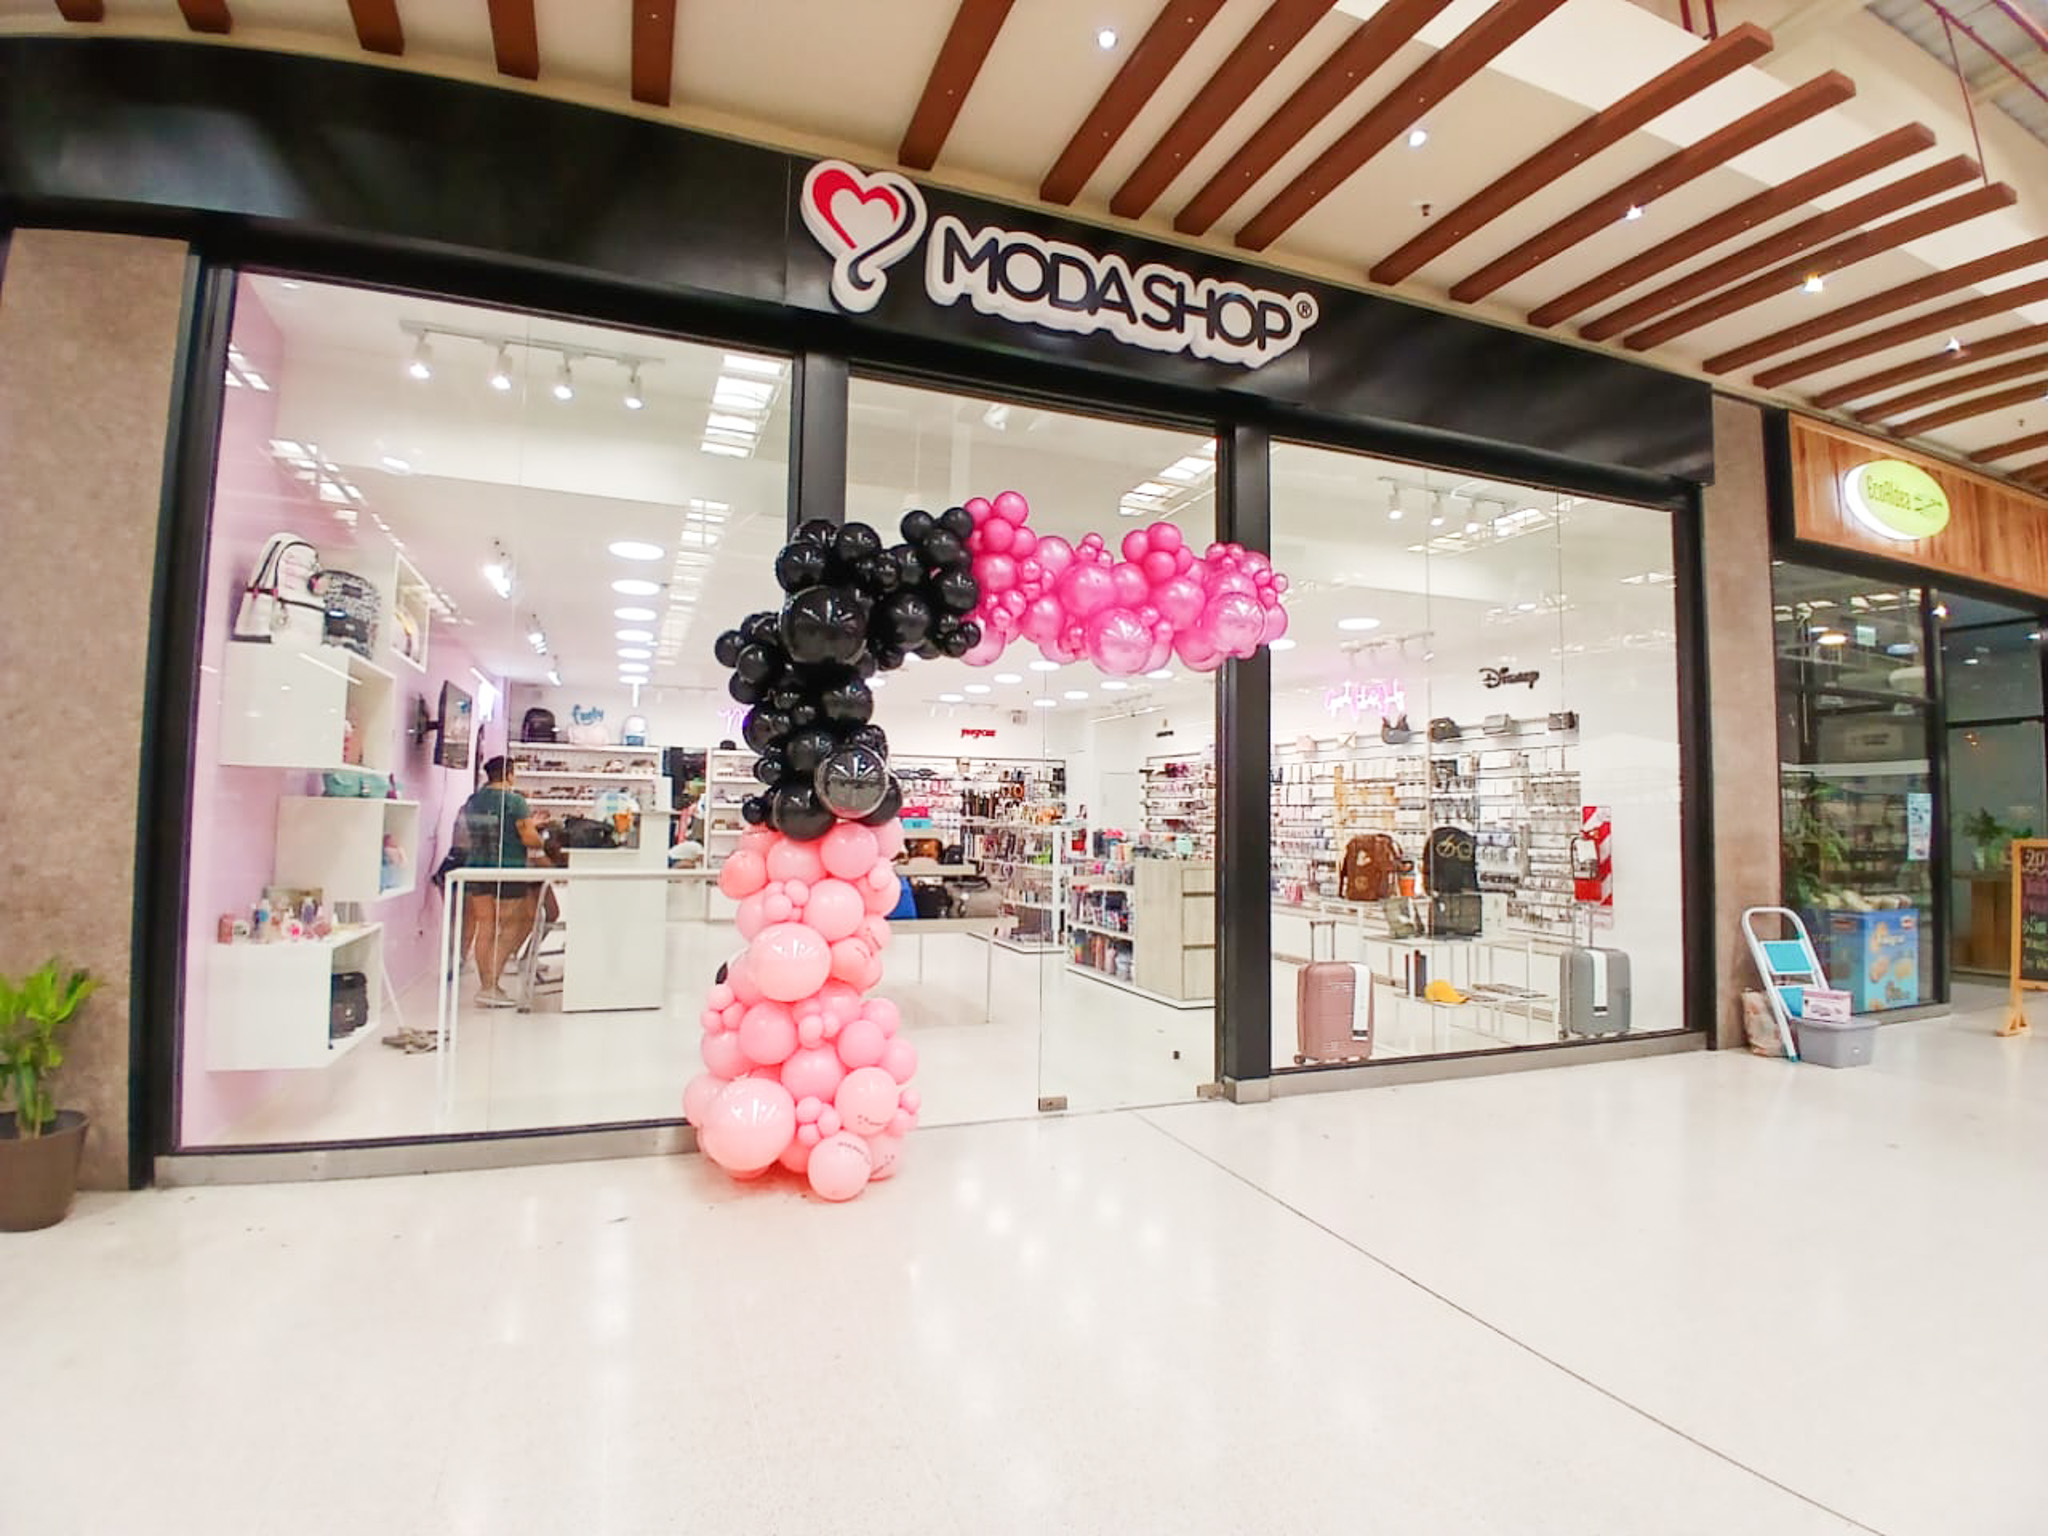
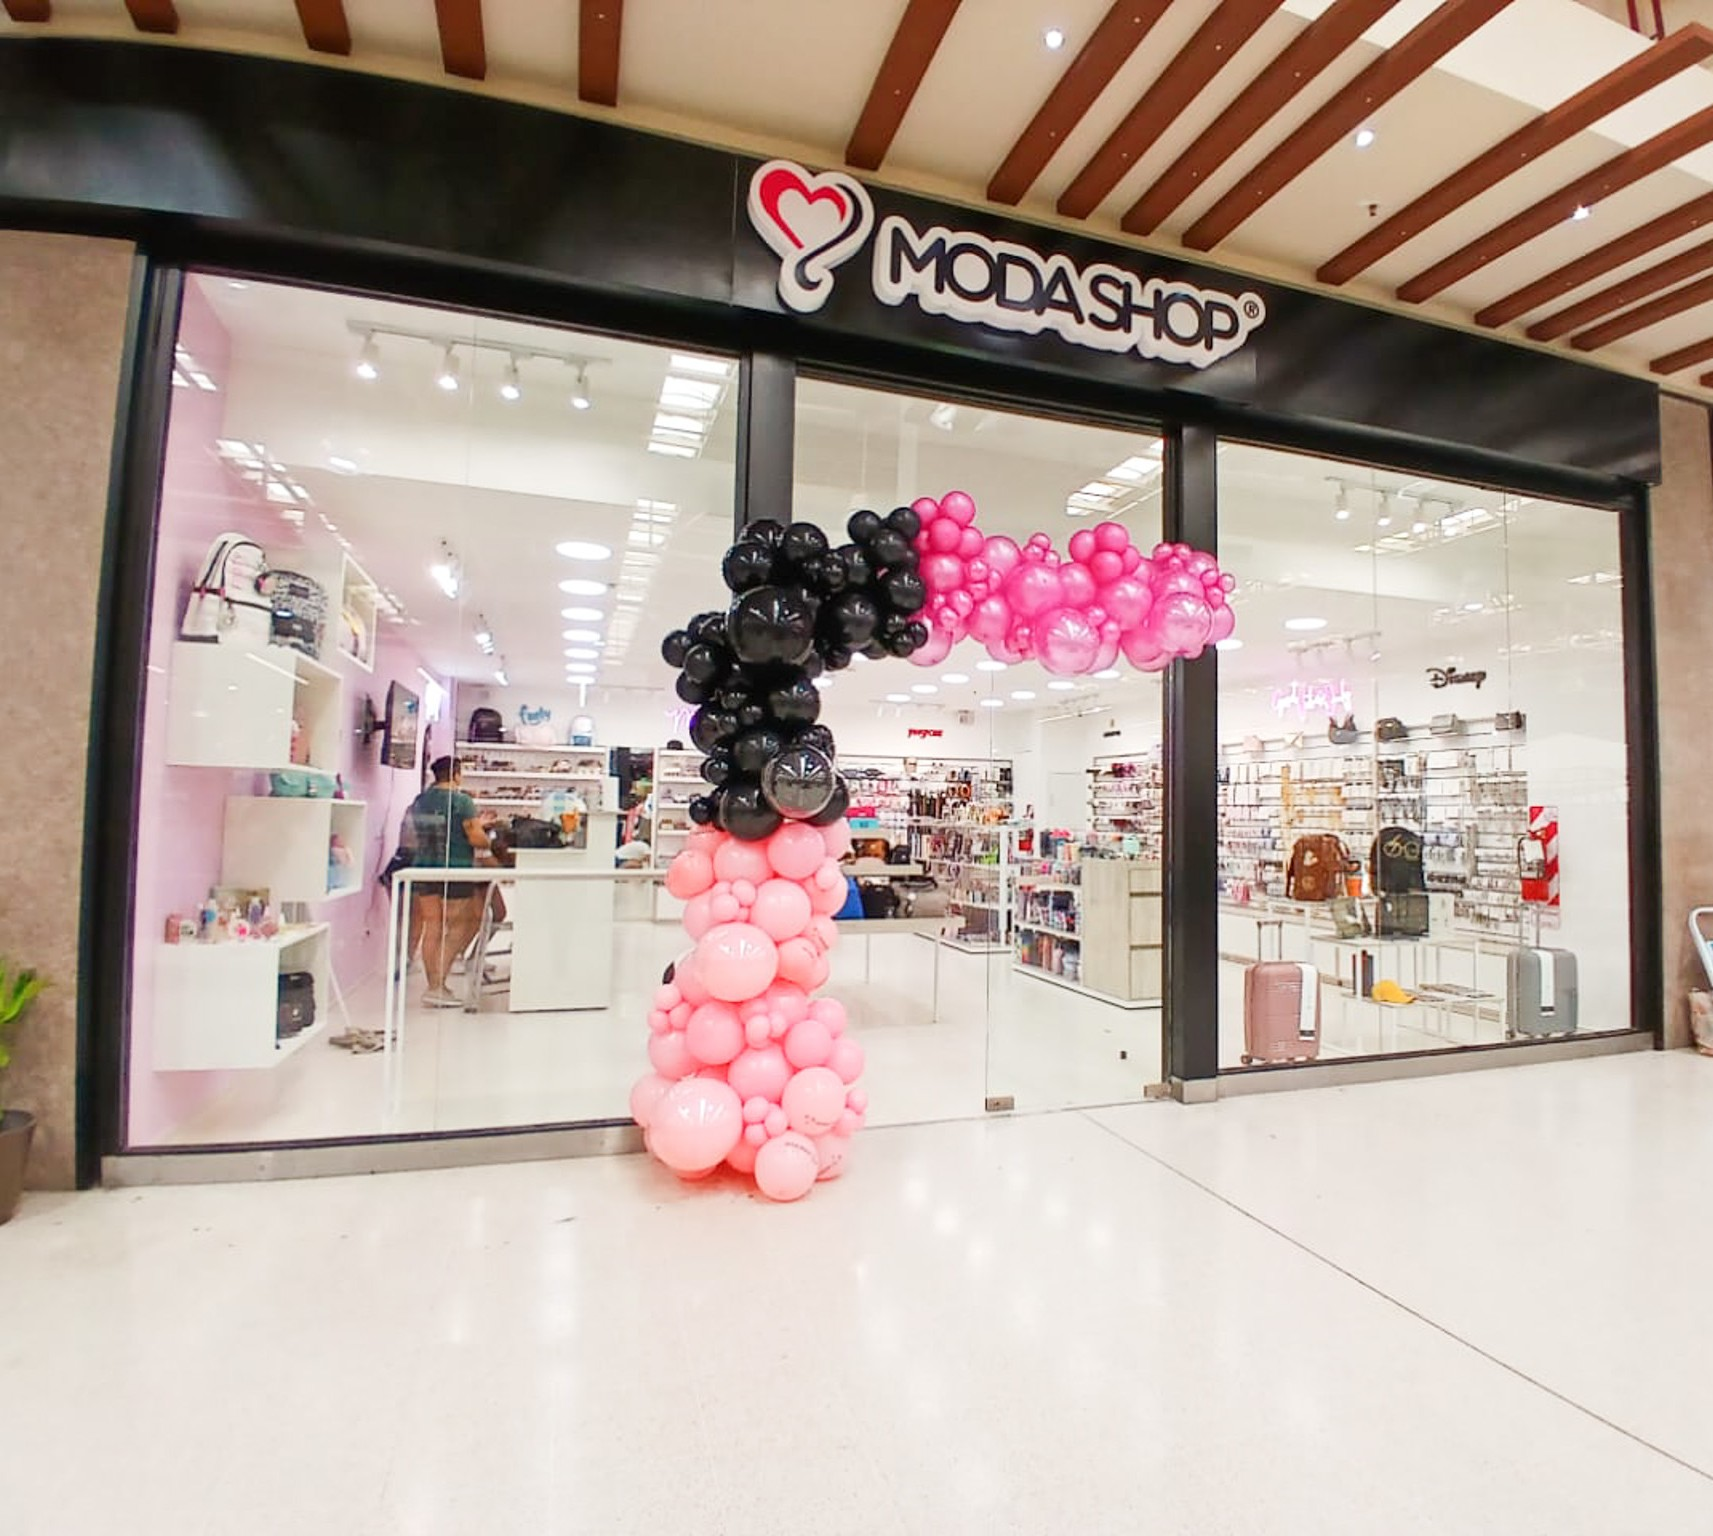
feat: replace store images with new visuals
Update images for modern ambiance and premium display sections.

#VERCEL_SKIP

diff --git a/components/products.tsx b/components/products.tsx
@@ -1,34 +1,41 @@
 import { Card, CardContent } from "@/components/ui/card"
-import { Briefcase, Sparkles, Shirt, BookOpen, Palette, Gift } from 'lucide-react'
+import { BookOpen, Gift } from "lucide-react"
+import Image from "next/image"
 
 const products = [
   {
-    icon: Briefcase,
+    icon: "/icons/bag.png",
+    isImage: true,
     name: "Marroquinería",
     description: "Carteras, billeteras y accesorios de cuero",
   },
   {
-    icon: Sparkles,
+    icon: "/icons/earring.png",
+    isImage: true,
     name: "Bijouterie",
     description: "Collares, pulseras, aros y anillos",
   },
   {
-    icon: Shirt,
+    icon: "/icons/snapback.png",
+    isImage: true,
     name: "Accesorios de temporada",
     description: "Bufandas, gorros, guantes y más",
   },
   {
     icon: BookOpen,
+    isImage: false,
     name: "Escolares y Bazar",
     description: "Mochilas, cartucheras y útiles",
   },
   {
-    icon: Palette,
+    icon: "/icons/cosmetics.png",
+    isImage: true,
     name: "Cosmética",
     description: "Maquillaje, perfumes y cuidado personal",
   },
   {
     icon: Gift,
+    isImage: false,
     name: "Regalería",
     description: "Ideas perfectas para toda ocasión",
   },
@@ -72,7 +79,17 @@ export function Products() {
                 <CardContent className="p-8">
                   <div className="flex items-start gap-4 mb-4">
                     <div className="w-14 h-14 rounded-2xl bg-gradient-to-br from-accent/20 to-accent/5 flex items-center justify-center group-hover:from-accent/30 group-hover:to-accent/10 transition-all flex-shrink-0">
-                      <product.icon className="w-7 h-7 text-accent" />
+                      {product.isImage ? (
+                        <Image
+                          src={(product.icon as string) || "/placeholder.svg"}
+                          alt={product.name}
+                          width={28}
+                          height={28}
+                          className="opacity-80 group-hover:opacity-100 transition-opacity"
+                        />
+                      ) : (
+                        <product.icon className="w-7 h-7 text-foreground" />
+                      )}
                     </div>
                     <div className="flex-1">
                       <h3 className="font-bold text-xl mb-2 group-hover:text-accent transition-colors">

diff --git a/app/globals.css b/app/globals.css
@@ -16,17 +16,18 @@
   --secondary-foreground: oklch(0.145 0 0);
   --muted: oklch(0.96 0 0);
   --muted-foreground: oklch(0.5 0 0);
-  --accent: oklch(0.62 0.28 328); /* Magenta */
+  /* Updated magenta to exact brand color #ea008d */
+  --accent: oklch(0.55 0.27 335); /* ModaShop Magenta #ea008d */
   --accent-foreground: oklch(1 0 0);
   --destructive: oklch(0.577 0.245 27.325);
   --destructive-foreground: oklch(1 0 0);
   --border: oklch(0.92 0 0);
   --input: oklch(0.92 0 0);
-  --ring: oklch(0.62 0.28 328);
-  --chart-1: oklch(0.62 0.28 328);
+  --ring: oklch(0.55 0.27 335);
+  --chart-1: oklch(0.55 0.27 335);
   --chart-2: oklch(0.145 0 0);
   --chart-3: oklch(0.5 0 0);
-  --chart-4: oklch(0.75 0.2 328);
+  --chart-4: oklch(0.65 0.22 335);
   --chart-5: oklch(0.3 0 0);
   --radius: 0.5rem;
   --sidebar: oklch(0.985 0 0);
@@ -52,17 +53,18 @@
   --secondary-foreground: oklch(0.985 0 0);
   --muted: oklch(0.269 0 0);
   --muted-foreground: oklch(0.708 0 0);
-  --accent: oklch(0.62 0.28 328);
+  /* Updated dark mode accent to exact brand color */
+  --accent: oklch(0.55 0.27 335);
   --accent-foreground: oklch(1 0 0);
   --destructive: oklch(0.396 0.141 25.723);
   --destructive-foreground: oklch(1 0 0);
   --border: oklch(0.269 0 0);
   --input: oklch(0.269 0 0);
-  --ring: oklch(0.62 0.28 328);
-  --chart-1: oklch(0.62 0.28 328);
+  --ring: oklch(0.55 0.27 335);
+  --chart-1: oklch(0.55 0.27 335);
   --chart-2: oklch(0.985 0 0);
   --chart-3: oklch(0.5 0 0);
-  --chart-4: oklch(0.75 0.2 328);
+  --chart-4: oklch(0.65 0.22 335);
   --chart-5: oklch(0.7 0 0);
   --sidebar: oklch(0.205 0 0);
   --sidebar-foreground: oklch(0.985 0 0);

diff --git a/components/stores.tsx b/components/stores.tsx
@@ -15,12 +15,12 @@ export function Stores() {
       description: "Espacios que inspiran",
     },
     {
-      image: "/store-interior-2.png",
+      image: "/store-interior-2.jpg",
       title: "Exhibición premium",
       description: "Productos organizados con estilo",
     },
     {
-      image: "/store-interior-3.png",
+      image: "/store-interior-3.jpg",
       title: "Ambiente moderno",
       description: "Experiencia de compra única",
     },
